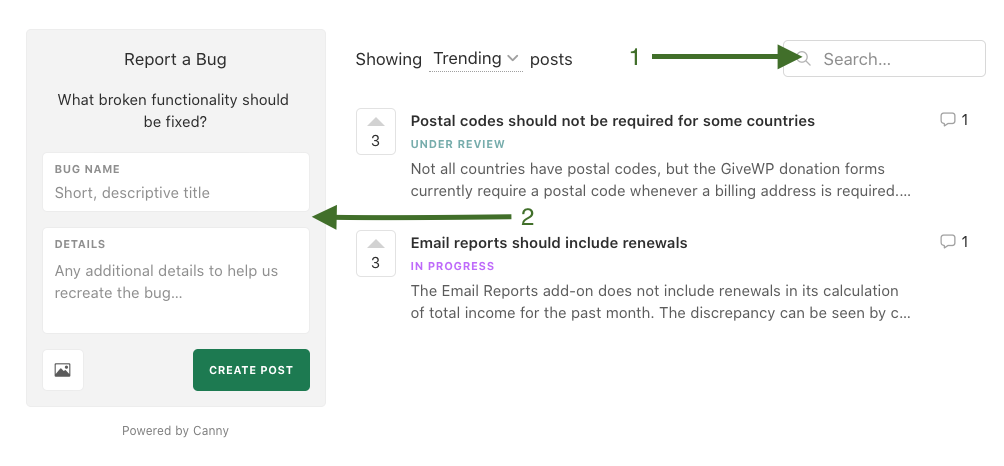
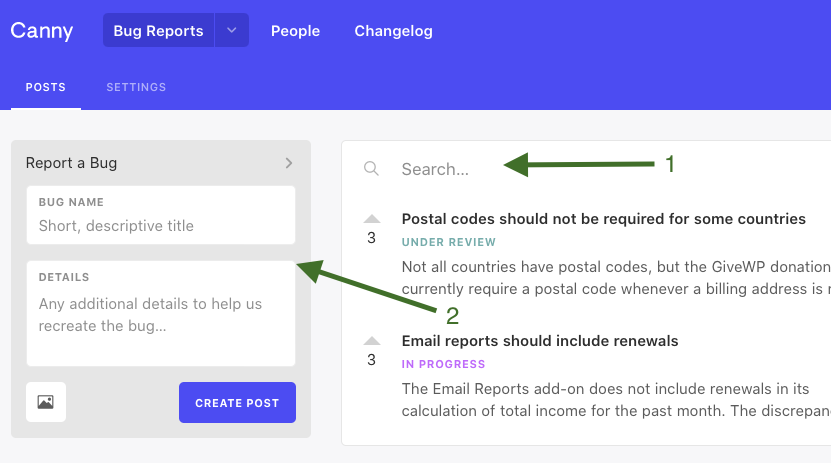
modifications to image and description for public feedback

diff --git a/daily-routine/contributing-product-feedback.md b/daily-routine/contributing-product-feedback.md
@@ -18,7 +18,7 @@ The first two are discussed here. For more on Documentation feedback, see the se
 
 If in the course of replicating customer issues we find a bug that is replicable in a separate environment, we should immediately create feedback, and alert Senior Support Technicians and/or the Head of Support that the feedback has been reported. It's not the role of Support Technicians to determine if an issue is urgent, just to keep an accurate count of how many folks are reporting an issue. 
 
-To create the feedback for bugs, visit the [bug reports page of the feedback site](https://feedback.givewp.com/bug-reports) and first search for related feedback to ensure the bug has not already been reported. 
+To create the feedback for bugs, visit the [bug reports page of the feedback site](https://feedback.givewp.com/admin/board/bug-reports) and first search for related feedback to ensure the bug has not already been reported. 
 
 ![Reporting Bug Report Feedback](/assets/canny-new-bug-feedback.png)
 
@@ -46,6 +46,11 @@ Most relevant feedback from the user gets pasted here.
 This follows for feedback recieved from social media, priority support, or anywhere else.
 
 If you as the technician have separate feedback from the user, use a separate internal comment. 
+
+{% hint style="warning" %}
+**NOTE**  
+Public comments by admins on the site will trigger emails to all voters and people following the feedback. We almost never use public comments for this reason.  
+{% endhint %} 
 
 ### Voting on Behalf of Users
 When you create feedback on behalf of users, to keep an accurate count of how many users are reporting the issue, be sure to add them as a voter. Begin by searching the voters already in the system, and then add in the user using the "Add voter" link:
